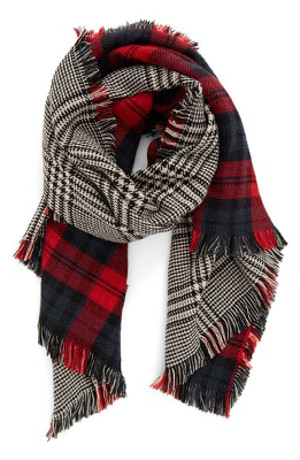
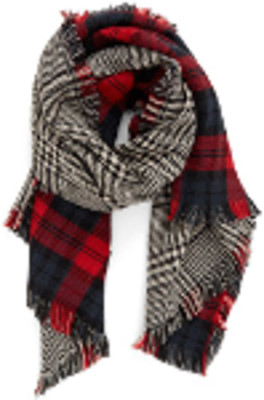
Resize photos and correcting grid

diff --git a/index.html b/index.html
@@ -80,14 +80,12 @@
           <div class="item">
           <h4>Reversible Plaid</h4>
           <h5>$26.99</h5>
-            <figure>
             <div class="photo-frame">
                <img srcset="images/reversible-plaid100.jpg 100w, images/reversible-plaid200.jpg 200w, images/reversible-plaid300.jpg 300w" 
-                sizes="(max-width: 800px) 100px, (max-width: 1600px) 200px, (min-width: 1601px) 300px"
+                sizes="(max-width: 800px) 99px, (max-width: 1600px) 198px, (min-width: 1601px) 264px"
                 src="images/reversible-plaid.jpg" alt="Plaid Scarf"/>
               </div>
-          <figcaption>Two classic patterns in one great look: This supersoft and cozy reversible scarf instantly doubles your street-style cred. 100% acrylic.</figcaption>
-            </figure>
+          <p>Two classic patterns in one great look: This supersoft and cozy reversible scarf instantly doubles your street-style cred. 100% acrylic.</p>
         </div>
           </div>
           
@@ -95,14 +93,12 @@
         <div class="item">
           <h4>Wool Cable Knit</h4>
           <h5>$49.99</h5>
-          <figure>
           <div class="photo-frame">
-          <img srcset="images/wool-cable100.jpg 100w, images/wool-cable200.jpg 200w, images/wool-cable300.jpg 300w"
-            sizes="(max-width: 800px) 100px, (max-width: 1600px) 200px, (min-width: 1601px) 300px"
+          <img srcset="images/wool-cable100.jpg 150w, images/wool-cable200.jpg 300w, images/wool-cable300.jpg 400w"
+            sizes="(max-width: 800px) 150px, (max-width: 1600px) 300px, (min-width: 1601px) 400px"
             src="images/wool-cable.jpeg" alt="Wool scarf"/>
             </div>
-          <figcaption> Warm yourself with this women's natural cable knit scarf, crafted from 100% Merino wool. Imported. </figcaption>
-            </figure>
+          <p>Warm yourself with this women's natural cable knit scarf, crafted from 100% Merino wool. Imported. </p>
         </div>
           </div>
         
@@ -110,14 +106,13 @@
         <div class="item">
           <h4>Northern Lights</h4>
           <h5>$29.99</h5>
-          <figure>
+          
           <div class="photo-frame">
-          <img srcset="images/northern-lights100.jpg 100w, images/northern-lights200.jpg 200w, images/northern-lights300.jpg 300w"
-            sizes="(max-width: 800px) 100px, (max-width: 1600px) 200px, (min-width: 1601px) 300px"
+          <img srcset="images/northern-lights100.jpg 150w, images/northern-lights200.jpg 290w, images/northern-lights300.jpg 380w"
+            sizes="(max-width: 800px) 145px, (max-width: 1600px) 289px, (min-width: 1601px) 386px"
             src="images/northern-lights.jpg" alt="Photo of a colorful scarf"/>
           </div>
-          <figcaption>Handmade by women in Agra, sales provide medical and educational support in this remote area of India. Crinkly 100% cotton.</figcaption>
-            </figure>
+          <p>Handmade by women in Agra, sales provide medical and educational support in this remote area of India. Crinkly 100% cotton.</p>
             </div>
         </div>
         
@@ -125,13 +120,12 @@
         <div class="item">
         <h4>Ombre Infinity</h4>
         <h5>$11.99</h5>
-          <figure></figure>
           <div class="photo-frame">
-          <img srcset="images/ombre-infinity100.jpg 100w, images/ombre-infinity200.jpg 200w, images/ombre-infinity300.jpg 300w"
-            sizes="(max-width: 800px) 100px, (max-width: 1600px) 200px, (min-width: 1601px) 300px"
+          <img srcset="images/ombre-infinity100.jpg 150w, images/ombre-infinity200.jpg 290w, images/ombre-infinity300.jpg 390w"
+            sizes="(max-width: 800px) 146px, (max-width: 1600px) 292px, (min-width: 1601px) 389px"
             src="images/ombre-infinity.jpg" alt="Ombre Scarf"/>
           </div>
-        <figcaption>A dip-dye effect adds color and dimension to a cozy infinity scarf featuring a soft, chunky knit. 100% acrylic.</figcaption>
+        <p>A dip-dye effect adds color and dimension to a cozy infinity scarf featuring a soft, chunky knit. 100% acrylic.</p>
         </div>
           </div>
         
@@ -139,13 +133,13 @@
         <div class="item">
           <h4>Fringed Plaid</h4>
           <h5>$19.99</h5>
-          <figure></figure>
+          
           <div class="photo-frame">
-          <img srcset="images/fringed-plaid100.jpg 100w, images/fringed-plaid200.jpg 200w, images/fringed-plaid300.jpg 300w"
-            sizes="(max-width: 800px) 100px, (max-width: 1600px) 200px, (min-width: 1601px) 300px"
+          <img srcset="images/fringed-plaid100.jpg 100w, images/fringed-plaid200.jpg 200w, images/fringed-plaid300.jpg 260w"
+            sizes="(max-width: 800px) 105px, (max-width: 1600px) 201px, (min-width: 1601px) 263px"
             src="images/fringed-plaid.jpg" alt="Plaid Scarf"/>
           </div>
-          <figcaption>Generously sized, extra soft and featuring a dazzling fringe, this scarf is rendered in a versatile gray, black and white plaid. Expertly beat the cold with style. 100% acrylic.</figcaption>
+          <p>Generously sized, extra soft and featuring a dazzling fringe, this scarf is rendered in a versatile gray, black and white plaid. Expertly beat the cold with style. 100% acrylic.</p>
         </div>
           </div>
         
@@ -153,14 +147,12 @@
         <div class="item">
           <h4>Multi Color</h4>
           <h5>$22.99</h5>
-          <figure></figure>
           <div class="photo-frame">
-          <img srcset="images/multi-color100.jpg 100w, images/multi-color200.jpg 200w, images/multi-color300.jpg 300w"
-            sizes="(max-width: 800px) 100px, (max-width: 1600px) 200px, (min-width: 1601px) 300px"
-            src="images/multi-color.jpeg" alt="Multi color scarf"/>
+          <img srcset="images/multi-color100.jpg 140, images/multi-color200.jpg 270w, images/multi-color300.jpg 360"
+            sizes="(max-width: 800px) 140px, (max-width: 1600px) 278px, (min-width: 1601px) 365px"
+            src="images/multi-color.jpg" alt="Multi color scarf"/>
           </div>
-          <figcaption>The Who What Wear Oversize Color-Block Square Scarf is big, bold, and designed to twist and wrap any way you wish. All the colors of the season are harmonized in this oversize accent, so you can adjust to contrast or match your outfit; soft and lush, it’s your stylish standoff against cold AC and unexpected fall breezes. 100% acrylic</figcaption>
-            
+          <p>The Who What Wear Oversize Color-Block Square Scarf is big, bold, and designed to twist and wrap any way you wish. All the colors of the season are harmonized in this oversize accent, so you can adjust to contrast or match your outfit; soft and lush, it’s your stylish standoff against cold AC and unexpected fall breezes. 100% acrylic</p>
         </div>
           </div>
         
@@ -168,13 +160,12 @@
         <div class="item">
           <h4>Etro Paisley Print Silk</h4>
           <h5>$249.99</h5> 
-          <figure></figure>
           <div class="photo-frame">
-          <img srcset="images/etro100.jpg 100w, images/etro200.jpg 200w, images/etro300.jpg 300w" 
-             sizes="(max-width: 800px) 100px, (max-width: 1600px) 200px, (min-width: 1601px) 300px"
+          <img srcset="images/etro100.jpg 130w, images/etro200.jpg 250w, images/etro300.jpg 330w" 
+             sizes="(max-width: 800px) 130px, (max-width: 1600px) 254px, (min-width: 1601px) 338px"
             src="images/etro.jpg" alt="Paisley silk scarf"/>
              </div>
-          <figcaption>Luxurious silk scarf with subtle paisley pattern. 100% silk</figcaption>
+          <p class="small-text">Luxurious silk scarf with subtle paisley pattern. 100% silk</p>
         </div>
           </div>
         
@@ -182,14 +173,12 @@
         <div class="item">
           <h4>Ashby Twill</h4>
           <h5>$70.99</h5>
-          <figure>
             <div class="photo-frame">
-            <img srcset="images/twill100.jpg 100w, images/twill200.jpg 200w, images/twill300.jpg 300w"
-              sizes="(max-width: 800px) 100px, (max-width: 1600px) 200px, (min-width: 1601px) 300px"
+            <img srcset="images/twill100.jpg 150w, images/twill200.jpg 300w, images/twill300.jpg 400w"
+              sizes="(max-width: 800px) 150px, (max-width: 1600px) 300px, (min-width: 1601px) 400px"
               src="images/twill.jpg" alt="Twill Scarf"/>
             </div>
-            <figcaption>Faribault brings you the Ashby Twill Scarf in Natural. Woven with a 'broken' twill technique, the Ashby Twill Scarf has a slight zigzag texture. Made in USA, this timeless scarf is crafted with luxurious merino wool and finished with heather gray fringe. 100% Merino wool</figcaption>
-          </figure>
+            <p>Faribault brings you the Ashby Twill Scarf in Natural. Woven with a 'broken' twill technique, the Ashby Twill Scarf has a slight zigzag texture. Made in USA, this timeless scarf is crafted with luxurious merino wool and finished with heather gray fringe. 100% Merino wool</p>
         </div>
           </div>
       </div>
@@ -207,8 +196,7 @@
     <!-- Latest compiled and minified JavaScript -->
     <script src="https://maxcdn.bootstrapcdn.com/bootstrap/3.3.7/js/bootstrap.min.js" integrity="sha384-Tc5IQib027qvyjSMfHjOMaLkfuWVxZxUPnCJA7l2mCWNIpG9mGCD8wGNIcPD7Txa" crossorigin="anonymous"></script>
   </div>
-</body>
-   <footer>
+  <footer>
     <div class="col-sm-6 col-lg-4 col-centered">
       <h6>Customer Service</h6>
       <p>Check Status of Order</p>
@@ -227,4 +215,5 @@
        <i class="fa fa-pinterest" aria-hidden="true"></i>
     </div>
   </footer>
+</body>
 </html>

diff --git a/styles/main.css b/styles/main.css
@@ -25,8 +25,9 @@ aside {
   text-align: center;
   margin: auto;
   display: block;
-  padding: 1rem;
+  padding: 1.5rem;
   width: 100%;
+  height: 100%;
 }
 
 
@@ -75,14 +76,10 @@ header {
   background-size: cover;
 }
 
-figure {
-  max-width: 100%;
-  padding: 1rem;
-  margin: auto;
-}
 
 img {
   max-width: 100%;
+ 
 }
 
 nav, h4, h6 {
@@ -100,10 +97,27 @@ h2 {
   font-size: 1.6rem;
 }
 
-figcaption, h5, p {
+h5, {
   font-family: 'Questrial', sans-serif;
   color: #06203A;
   font-size: 0.8rem;
+}
+
+p {
+  font-family: 'Questrial', sans-serif;
+  color: #06203A;
+  font-size: 0.8rem;
+  white-space: inherit;
+  width: auto;
+  display: flex;
+  justify-content: flex-end;
+  align-items: flex-end;
+  bottom: 0;
+  
+}
+
+.small-text {
+  white-space:initial;
 }
 
 footer {
